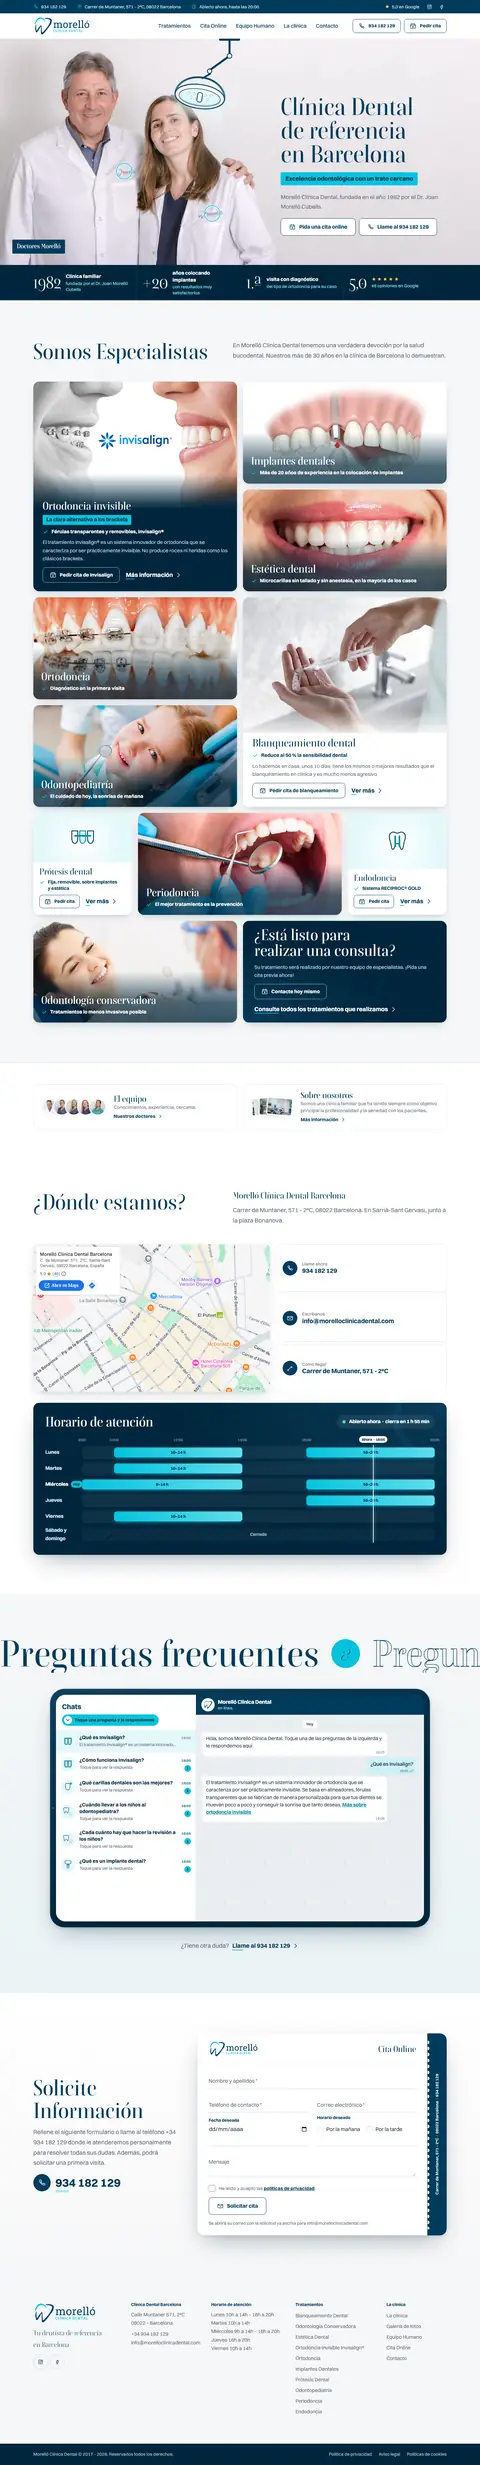
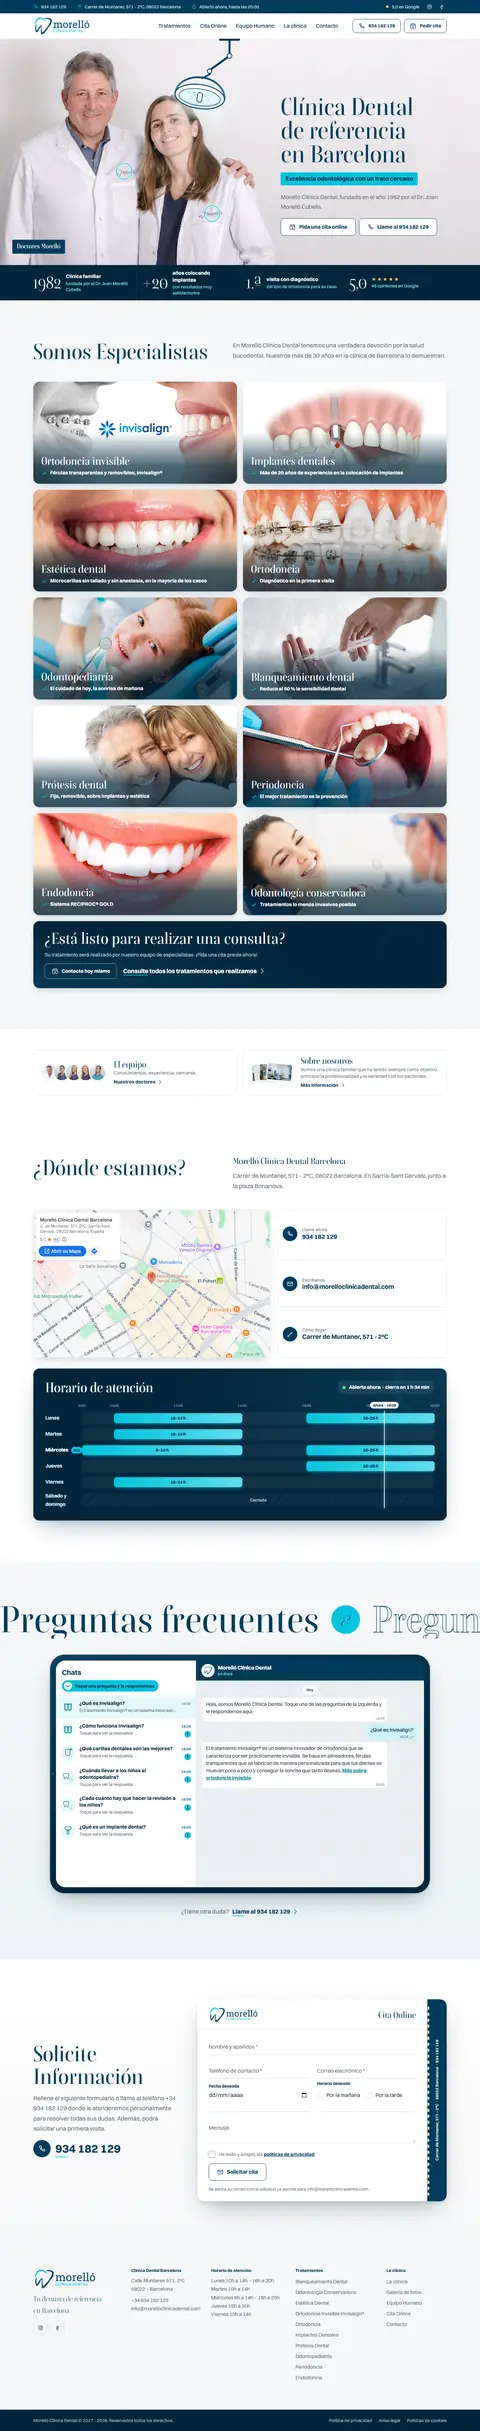
feat: ronda 4b — las diez fichas de servicio iguales y todas con foto
- Fuera las fichas altas y las de pictograma: prótesis y endodoncia
  llevan ya su foto (de su web), como el resto.
- Ordenador: dos columnas de fichas 2:1 exactas; la consulta, en una
  banda a todo el ancho.
- Tablet: las diez a la misma altura, con los botones al pie.
- Invisalign, blanqueamiento, prótesis y endodoncia recortadas a 2:1.

diff --git a/prototype/index.html b/prototype/index.html
@@ -50,7 +50,7 @@
 <link rel="preload" href="assets/fonts/boska-500.woff2" as="font" type="font/woff2" crossorigin>
 <link rel="preload" href="assets/fonts/switzer-400.woff2" as="font" type="font/woff2" crossorigin>
 <link rel="preload" as="image" href="assets/img/doctores-morello-1440.webp" imagesrcset="assets/img/doctores-morello-640.webp 640w, assets/img/doctores-morello-960.webp 960w, assets/img/doctores-morello-1440.webp 1440w, assets/img/doctores-morello-1919.webp 1919w" imagesizes="(min-width: 900px) 92vw, 100vw" fetchpriority="high">
-<link rel="stylesheet" href="assets/css/estilos.css?v=7">
+<link rel="stylesheet" href="assets/css/estilos.css?v=8">
 <script type="application/ld+json">
 {
   "@context": "https://schema.org",
@@ -236,14 +236,13 @@
       <div class="servicios__marco" data-servicios>
         <div class="servicios__rejilla">
 
-          <article class="servicio servicio--alto servicio--noche s-inv" style="--n:0">
-            <div class="servicio__media"><img data-foto loading="lazy" src="assets/img/ortodoncia-invisible-906.webp" srcset="assets/img/ortodoncia-invisible-600.webp 600w, assets/img/ortodoncia-invisible-906.webp 906w" sizes="(min-width: 1000px) 620px, 92vw" width="906" height="559" alt="Ortodoncia invisible Invisalign frente a los brackets"></div>
+          <article class="servicio servicio--foto s-inv" style="--n:0">
+            <div class="servicio__media"><img data-foto loading="lazy" src="assets/img/invisalign-906.webp" srcset="assets/img/invisalign-600.webp 600w, assets/img/invisalign-906.webp 906w" sizes="(min-width: 1000px) 620px, (min-width: 760px) 48vw, 92vw" width="906" height="453" alt="Ortodoncia invisible Invisalign frente a los brackets"></div>
             <div class="servicio__cuerpo">
               <h3 class="servicio__titulo">Ortodoncia invisible</h3>
-              <p class="banda banda--peq">La clara alternativa a los brackets</p>
               <p class="servicio__valor"><svg class="ico"><use href="#i-check"/></svg>Férulas transparentes y removibles, Invisalign®</p>
               <div class="servicio__mas">
-                <p>El tratamiento Invisalign® es un sistema innovador de ortodoncia que se caracteriza por ser prácticamente invisible. No produce roces ni heridas como los clásicos brackets.</p>
+                <p>La clara alternativa a los brackets. El tratamiento Invisalign® es un sistema innovador de ortodoncia que se caracteriza por ser prácticamente invisible. No produce roces ni heridas como los clásicos brackets.</p>
                 <div class="servicio__botones"><a class="boton boton--llamada" href="#cita" data-tratamiento="Ortodoncia invisible"><span class="boton__fondo" aria-hidden="true"></span><span class="boton__arco" aria-hidden="true"></span><span class="boton__ico boton__ico--cal" aria-hidden="true"><svg><use href="#i-cal"/></svg><svg><use href="#i-cal"/></svg></span><span class="boton__txt" data-t="Pedir cita de Invisalign">Pedir cita de Invisalign</span></a><a class="enlace" href="https://www.morelloclinicadental.com/tratamientos/ortodoncia-invisible-invisalign/">Más información<span class="sr"> sobre la ortodoncia invisible</span><svg class="ico"><use href="#i-flecha"/></svg></a></div>
               </div>
             </div>
@@ -251,7 +250,7 @@
           </article>
 
           <article class="servicio servicio--foto s-imp" style="--n:1">
-            <div class="servicio__media"><img data-foto loading="lazy" src="assets/img/implantes-1080.webp" srcset="assets/img/implantes-600.webp 600w, assets/img/implantes-1080.webp 1080w" sizes="(min-width: 1000px) 620px, 92vw" width="1080" height="541" alt="Ilustración de un implante dental entre dos dientes"></div>
+            <div class="servicio__media"><img data-foto loading="lazy" src="assets/img/implantes-1080.webp" srcset="assets/img/implantes-600.webp 600w, assets/img/implantes-1080.webp 1080w" sizes="(min-width: 1000px) 620px, (min-width: 760px) 48vw, 92vw" width="1080" height="541" alt="Ilustración de un implante dental entre dos dientes"></div>
             <div class="servicio__cuerpo">
               <h3 class="servicio__titulo">Implantes dentales</h3>
               <p class="servicio__valor"><svg class="ico"><use href="#i-check"/></svg>Más de 20 años de experiencia en la colocación de implantes</p>
@@ -264,7 +263,7 @@
           </article>
 
           <article class="servicio servicio--foto s-est" style="--n:2">
-            <div class="servicio__media"><img data-foto loading="lazy" src="assets/img/estetica-dental-1080.webp" srcset="assets/img/estetica-dental-600.webp 600w, assets/img/estetica-dental-1080.webp 1080w" sizes="(min-width: 1000px) 620px, 92vw" width="1080" height="541" alt="Sonrisa natural tras un tratamiento de estética dental"></div>
+            <div class="servicio__media"><img data-foto loading="lazy" src="assets/img/estetica-dental-1080.webp" srcset="assets/img/estetica-dental-600.webp 600w, assets/img/estetica-dental-1080.webp 1080w" sizes="(min-width: 1000px) 620px, (min-width: 760px) 48vw, 92vw" width="1080" height="541" alt="Sonrisa natural tras un tratamiento de estética dental"></div>
             <div class="servicio__cuerpo">
               <h2 class="servicio__titulo">Estética dental</h2>
               <p class="servicio__valor"><svg class="ico"><use href="#i-check"/></svg>Microcarillas sin tallado y sin anestesia, en la mayoría de los casos</p>
@@ -277,7 +276,7 @@
           </article>
 
           <article class="servicio servicio--foto s-ort" style="--n:3">
-            <div class="servicio__media"><img data-foto loading="lazy" src="assets/img/ortodoncia-brackets-1080.webp" srcset="assets/img/ortodoncia-brackets-600.webp 600w, assets/img/ortodoncia-brackets-1080.webp 1080w" sizes="(min-width: 1000px) 620px, 92vw" width="1080" height="541" alt="Ortodoncia con brackets estéticos y metálicos"></div>
+            <div class="servicio__media"><img data-foto loading="lazy" src="assets/img/ortodoncia-brackets-1080.webp" srcset="assets/img/ortodoncia-brackets-600.webp 600w, assets/img/ortodoncia-brackets-1080.webp 1080w" sizes="(min-width: 1000px) 620px, (min-width: 760px) 48vw, 92vw" width="1080" height="541" alt="Ortodoncia con brackets estéticos y metálicos"></div>
             <div class="servicio__cuerpo">
               <h2 class="servicio__titulo">Ortodoncia</h2>
               <p class="servicio__valor"><svg class="ico"><use href="#i-check"/></svg>Diagnóstico en la primera visita</p>
@@ -290,7 +289,7 @@
           </article>
 
           <article class="servicio servicio--foto s-ped" style="--n:4">
-            <div class="servicio__media"><img data-foto loading="lazy" src="assets/img/odontopediatria-1080.webp" srcset="assets/img/odontopediatria-600.webp 600w, assets/img/odontopediatria-1080.webp 1080w" sizes="(min-width: 1000px) 620px, 92vw" width="1080" height="541" alt="Niña sonriendo en el sillón durante una revisión de odontopediatría"></div>
+            <div class="servicio__media"><img data-foto loading="lazy" src="assets/img/odontopediatria-1080.webp" srcset="assets/img/odontopediatria-600.webp 600w, assets/img/odontopediatria-1080.webp 1080w" sizes="(min-width: 1000px) 620px, (min-width: 760px) 48vw, 92vw" width="1080" height="541" alt="Niña sonriendo en el sillón durante una revisión de odontopediatría"></div>
             <div class="servicio__cuerpo">
               <h2 class="servicio__titulo">Odontopediatría</h2>
               <p class="servicio__valor"><svg class="ico"><use href="#i-check"/></svg>El cuidado de hoy, la sonrisa de mañana</p>
@@ -302,8 +301,8 @@
             <span class="servicio__arco" aria-hidden="true"></span>
           </article>
 
-          <article class="servicio servicio--alto servicio--claro s-bla" style="--n:5">
-            <div class="servicio__media"><img data-foto loading="lazy" src="assets/img/blanqueamiento-800.webp" srcset="assets/img/blanqueamiento-600.webp 600w, assets/img/blanqueamiento-800.webp 800w" sizes="(min-width: 1000px) 620px, 92vw" width="800" height="533" alt="Férula y gel de blanqueamiento dental para usar en casa"></div>
+          <article class="servicio servicio--foto s-bla" style="--n:5">
+            <div class="servicio__media"><img data-foto loading="lazy" src="assets/img/blanqueamiento-casa-800.webp" srcset="assets/img/blanqueamiento-casa-600.webp 600w, assets/img/blanqueamiento-casa-800.webp 800w" sizes="(min-width: 1000px) 620px, (min-width: 760px) 48vw, 92vw" width="800" height="400" alt="Férula y gel de blanqueamiento dental para usar en casa"></div>
             <div class="servicio__cuerpo">
               <h3 class="servicio__titulo">Blanqueamiento dental</h3>
               <p class="servicio__valor"><svg class="ico"><use href="#i-check"/></svg>Reduce al 50 % la sensibilidad dental</p>
@@ -315,8 +314,8 @@
             <span class="servicio__arco" aria-hidden="true"></span>
           </article>
 
-          <article class="servicio servicio--picto s-pro" style="--n:6">
-            <div class="servicio__media"><svg class="picto" viewBox="0 0 40 40" aria-hidden="true"><path d="M4.5 10h8.5v11c0 4-1.9 7-4.25 7S4.5 25 4.5 21Z"/><path class="pi pi-pontico" d="M15.75 10h8.5v11c0 4-1.9 7-4.25 7s-4.25-3-4.25-7Z"/><path d="M27 10h8.5v11c0 4-1.9 7-4.25 7S27 25 27 21Z"/><path class="pi pi-puente" d="M9 17h22"/></svg></div>
+          <article class="servicio servicio--foto s-pro" style="--n:6">
+            <div class="servicio__media"><img data-foto loading="lazy" src="assets/img/protesis-pareja-818.webp" srcset="assets/img/protesis-pareja-600.webp 600w, assets/img/protesis-pareja-818.webp 818w" sizes="(min-width: 1000px) 620px, (min-width: 760px) 48vw, 92vw" width="818" height="409" alt="Pareja de adultos sonriendo abrazados"></div>
             <div class="servicio__cuerpo">
               <h3 class="servicio__titulo">Prótesis dental</h3>
               <p class="servicio__valor"><svg class="ico"><use href="#i-check"/></svg>Fija, removible, sobre implantes y estética</p>
@@ -329,7 +328,7 @@
           </article>
 
           <article class="servicio servicio--foto s-per" style="--n:7">
-            <div class="servicio__media"><img data-foto loading="lazy" src="assets/img/periodoncia-1080.webp" srcset="assets/img/periodoncia-600.webp 600w, assets/img/periodoncia-1080.webp 1080w" sizes="(min-width: 1000px) 620px, 92vw" width="1080" height="541" alt="Revisión de las encías con espejo y sonda periodontal"></div>
+            <div class="servicio__media"><img data-foto loading="lazy" src="assets/img/periodoncia-1080.webp" srcset="assets/img/periodoncia-600.webp 600w, assets/img/periodoncia-1080.webp 1080w" sizes="(min-width: 1000px) 620px, (min-width: 760px) 48vw, 92vw" width="1080" height="541" alt="Revisión de las encías con espejo y sonda periodontal"></div>
             <div class="servicio__cuerpo">
               <h3 class="servicio__titulo">Periodoncia</h3>
               <p class="servicio__valor"><svg class="ico"><use href="#i-check"/></svg>El mejor tratamiento es la prevención</p>
@@ -341,8 +340,8 @@
             <span class="servicio__arco" aria-hidden="true"></span>
           </article>
 
-          <article class="servicio servicio--picto s-end" style="--n:8">
-            <div class="servicio__media"><svg class="picto" viewBox="0 0 40 40" aria-hidden="true"><path d="M11 8.5c2.5-1.8 5-1.2 7 0 1.4.8 2.6.8 4 0 2-1.2 4.5-1.8 7 0 3 2.2 3 6.8 1.4 11-1.2 3.2-1.3 6.6-2.4 10.6-.7 2.6-2.8 2.7-3.5.1-.9-3.3-1.2-6.4-4.5-6.4s-3.6 3.1-4.5 6.4c-.7 2.6-2.8 2.5-3.5-.1-1.1-4-1.2-7.4-2.4-10.6C8 15.3 8 10.7 11 8.5Z"/><g class="pi pi-canal"><path d="M17 13.5v14.5M23 13.5v14.5"/></g></svg></div>
+          <article class="servicio servicio--foto s-end" style="--n:8">
+            <div class="servicio__media"><img data-foto loading="lazy" src="assets/img/endodoncia-sonrisa-1080.webp" srcset="assets/img/endodoncia-sonrisa-600.webp 600w, assets/img/endodoncia-sonrisa-1080.webp 1080w" sizes="(min-width: 1000px) 620px, (min-width: 760px) 48vw, 92vw" width="1080" height="540" alt="Sonrisa sana con los dientes blancos"></div>
             <div class="servicio__cuerpo">
               <h3 class="servicio__titulo">Endodoncia</h3>
               <p class="servicio__valor"><svg class="ico"><use href="#i-check"/></svg>Sistema RECIPROC® GOLD</p>
@@ -355,7 +354,7 @@
           </article>
 
           <article class="servicio servicio--foto s-con" style="--n:9">
-            <div class="servicio__media"><img data-foto loading="lazy" src="assets/img/conservadora-1080.webp" srcset="assets/img/conservadora-600.webp 600w, assets/img/conservadora-1080.webp 1080w" sizes="(min-width: 1000px) 620px, 92vw" width="1080" height="541" alt="Paciente sonriendo durante una revisión dental"></div>
+            <div class="servicio__media"><img data-foto loading="lazy" src="assets/img/conservadora-1080.webp" srcset="assets/img/conservadora-600.webp 600w, assets/img/conservadora-1080.webp 1080w" sizes="(min-width: 1000px) 620px, (min-width: 760px) 48vw, 92vw" width="1080" height="541" alt="Paciente sonriendo durante una revisión dental"></div>
             <div class="servicio__cuerpo">
               <h3 class="servicio__titulo">Odontología conservadora</h3>
               <p class="servicio__valor"><svg class="ico"><use href="#i-check"/></svg>Tratamientos lo menos invasivos posible</p>
@@ -616,6 +615,6 @@
   <a href="https://goo.gl/maps/yKcNHb74snL2" target="_blank" rel="noopener"><span class="barra-movil__ico" aria-hidden="true"><svg><use href="#i-ruta"/></svg></span>Cómo llegar</a>
 </nav>
 
-<script src="assets/js/main.js?v=7" defer></script>
+<script src="assets/js/main.js?v=8" defer></script>
 </body>
 </html>

diff --git a/prototype/assets/css/estilos.css b/prototype/assets/css/estilos.css
@@ -737,15 +737,7 @@ dialog::backdrop { background: rgba(0, 38, 60, .6); }
 .servicio__arco { position: absolute; z-index: 3; left: 12px; top: 12px; width: 58px; height: 58px; border-radius: 50%; border: 4px solid transparent; border-top-color: var(--cian); border-left-color: var(--cian); pointer-events: none; opacity: 0; transform: rotate(-90deg) scale(.6); transition: opacity .3s, transform .7s var(--muelle); }
 .servicio:hover .servicio__arco, .servicio:focus-within .servicio__arco { opacity: 1; transform: rotate(-14deg) scale(1); }
 .servicio:hover .servicio__media img, .servicio:focus-within .servicio__media img { transform: scale(1.05); }
-.servicio--picto .servicio__media { display: grid; place-items: center; aspect-ratio: 2 / 1; background: radial-gradient(circle at 50% 60%, #fff 0%, var(--cian-lavado) 70%); }
-.servicio--picto .picto { width: clamp(84px, 22%, 120px); height: auto; stroke-width: 1.2; transition: transform .7s var(--muelle); }
-.servicio--picto:hover .picto { transform: scale(1.08) rotate(-4deg); }
-.servicio--noche { background: var(--azul-noche); }
-.servicio--noche .servicio__titulo { color: #fff; }
-.servicio--noche .servicio__valor { color: #fff; }
-.servicio--noche .servicio__mas > p { color: #C6DBE6; }
-.servicio--noche .boton { --b-borde: rgba(255, 255, 255, .72); --b-texto: #fff; --b-relleno: #fff; --b-texto2: var(--azul); --b-fondo: transparent; }
-.servicio--noche .enlace, .enlace--claro { color: #fff; }
+.enlace--claro { color: #fff; }
 .servicio--consulta { justify-content: center; background: radial-gradient(120% 140% at 0% 100%, #0A3A57 0%, var(--azul-noche) 60%); color: #CFE2EC; }
 .servicio--consulta .servicio__titulo { color: #fff; font-size: clamp(2rem, 1.5rem + 1.6vw, 2.9rem); }
 .servicio--consulta .servicio__cuerpo > p { color: #C6DBE6; }
@@ -756,25 +748,21 @@ dialog::backdrop { background: rgba(0, 38, 60, .6); }
 
 /* tablets y ordenadores sin ratón: dos columnas de fichas */
 @media (min-width: 760px) {
-  .servicios__rejilla { grid-template-columns: repeat(2, minmax(0, 1fr)); gap: 18px; }
+  .servicios__rejilla { grid-template-columns: repeat(2, minmax(0, 1fr)); grid-template-rows: repeat(5, 1fr) auto; gap: 18px; }
   .s-ver { grid-column: 1 / -1; }
+  /* las diez fichas, iguales: la misma altura y los botones al pie */
+  .servicio--foto .servicio__cuerpo { flex: 1; grid-template-rows: auto auto 1fr; }
+  .servicio--foto .servicio__mas { grid-template-rows: auto 1fr; }
+  .servicio--foto .servicio__botones { align-self: end; flex-direction: column; align-items: flex-start; }
   .valores__lista { grid-template-columns: repeat(4, minmax(0, 1fr)); }
   .valor { min-height: var(--alto-franja); padding-inline: 18px; }
   .valor:first-child { padding-left: 0; }
   .valor + .valor { border-left: 1px solid rgba(255, 255, 255, .12); }
   .valor:nth-child(n + 3) { border-top: 0; }
 }
-/* ordenador con ratón: rejilla de proporciones exactas (las fotos 2:1 caben enteras) y el texto sube al pasar */
+/* ordenador con ratón: diez fichas 2:1 exactas (las fotos caben enteras) y el texto sube al pasar */
 @media (min-width: 1000px) and (hover: hover) {
-  .servicios__rejilla {
-    --g: 18px; gap: var(--g);
-    grid-template-columns: repeat(4, minmax(0, 1fr));
-    grid-auto-rows: calc((100cqw - 3 * var(--g)) / 4 / 1 + var(--g) / 2);
-    grid-template-areas: "inv inv imp imp" "inv inv est est" "ort ort bla bla" "ped ped bla bla" "pro per per end" "con con ver ver";
-  }
-  .s-inv { grid-area: inv; } .s-imp { grid-area: imp; } .s-est { grid-area: est; } .s-ort { grid-area: ort; } .s-ped { grid-area: ped; }
-  .s-bla { grid-area: bla; } .s-pro { grid-area: pro; } .s-per { grid-area: per; } .s-end { grid-area: end; } .s-con { grid-area: con; }
-  .s-ver { grid-area: ver; }
+  .servicios__rejilla { --g: 18px; gap: var(--g); grid-template-rows: repeat(5, calc((100cqw - var(--g)) / 4)) auto; }
   .servicio__titulo { font-size: clamp(1.7rem, 2.6cqw, 2.6rem); }
   /* fichas con foto: la foto entera de fondo y el texto que sube al pasar */
   .servicio--foto .servicio__media { position: absolute; inset: 0; }
@@ -787,18 +775,7 @@ dialog::backdrop { background: rgba(0, 38, 60, .6); }
   .servicio--foto:hover .servicio__mas, .servicio--foto:focus-within .servicio__mas { opacity: 1; transition-delay: .12s; }
   .servicio--foto .boton { --b-borde: rgba(255, 255, 255, .72); --b-texto: #fff; --b-relleno: #fff; --b-texto2: var(--azul); --b-fondo: transparent; }
   .servicio--foto .enlace { color: #fff; }
-  /* fichas altas: foto arriba entera y texto encima de su parte baja */
-  .servicio--alto .servicio__media { position: absolute; left: 0; right: 0; top: 0; }
-  .servicio--alto .servicio__cuerpo { position: absolute; left: 0; right: 0; bottom: 0; padding: 80px 28px 26px; }
-  .servicio--noche .servicio__cuerpo { background: linear-gradient(180deg, rgba(0, 38, 60, 0) 0%, rgba(0, 38, 60, .9) 26%, var(--azul-noche) 46%); }
-  .servicio--claro .servicio__cuerpo { background: linear-gradient(180deg, rgba(255, 255, 255, 0) 0%, rgba(255, 255, 255, .92) 26%, #fff 46%); }
-  /* fichas pequeñas con pictograma */
-  .servicio--picto .servicio__media { aspect-ratio: auto; flex: 1; min-height: 0; }
-  .servicio--picto .servicio__cuerpo { padding: 14px 18px 18px; gap: 8px; }
-  .servicio--picto .servicio__titulo { font-size: clamp(1.5rem, 2.1cqw, 2rem); }
-  .servicio--picto .servicio__mas > p { display: none; }
-  .servicio--picto .servicio__valor { font-size: .88rem; }
-  .servicio--picto .boton { min-height: 40px; padding: 7px 14px; font-size: .86rem; }
+  .servicio--foto .servicio__botones { flex-direction: row; align-items: center; }
   .servicio--consulta .servicio__cuerpo { padding: 28px 34px; gap: 14px; }
 }
 

diff --git a/prototype/assets/js/main.js b/prototype/assets/js/main.js
@@ -256,19 +256,6 @@
     var rsServ; window.addEventListener('resize', function () { clearTimeout(rsServ); rsServ = setTimeout(medir, 150); });
     if (document.fonts && document.fonts.ready) document.fonts.ready.then(medir);
     vigilar(marcoServ, null, '0px 0px -10% 0px');
-    // al pasar por una ficha con pictograma, el pictograma hace su gesto; y de vez en cuando, solo
-    var conPicto = fichas.filter(function (f) { return f.classList.contains('servicio--picto'); });
-    conPicto.forEach(function (f) {
-      f.addEventListener('pointerenter', function () { f.classList.remove('gesto'); void f.offsetWidth; f.classList.add('gesto'); });
-    });
-    var iGesto = 0;
-    (function gestos() {
-      if (!quieto && marcoServ.classList.contains('en-vista') && conPicto.length) {
-        var f = conPicto[iGesto++ % conPicto.length];
-        if (!f.matches(':hover')) { f.classList.remove('gesto'); void f.offsetWidth; f.classList.add('gesto'); }
-      }
-      setTimeout(gestos, 2600);
-    })();
   }
 
   /* ---------- preguntas: una tablet con la conversación de WhatsApp ---------- */

diff --git a/prototype/caducada.html b/prototype/caducada.html
@@ -76,7 +76,7 @@
 
     <figure class="miniatura">
       <span class="ventana" tabindex="0" aria-label="Miniatura de la home propuesta">
-        <img src="assets/img/home-miniatura.webp" width="480" height="2465" alt="Miniatura de la home propuesta para Morelló Clínica Dental, completa de arriba abajo" onerror="this.closest('figure').hidden = true">
+        <img src="assets/img/home-miniatura.webp" width="480" height="2431" alt="Miniatura de la home propuesta para Morelló Clínica Dental, completa de arriba abajo" onerror="this.closest('figure').hidden = true">
       </span>
     </figure>
   </main>

diff --git a/README.md b/README.md
@@ -11,7 +11,7 @@ Prototipo de homepage para **Morelló Clínica Dental** ([morelloclinicadental.c
 Tras hablar Pablo con su jefe: una home sirve para atrapar al paciente, así que manda lo que ofrece la clínica y lo que la distingue; el equipo y las instalaciones pasan a un segundo plano, porque tendrán sus páginas. El diseño se mantiene.
 
 - **Bajo el hero, lo que distingue a la clínica** (en lugar de los accesos): 1982, clínica familiar fundada por el Dr. Joan Morelló Cubells · +20 años colocando implantes · 1.ª visita con diagnóstico del tipo de ortodoncia · 5,0 en Google con 46 opiniones.
-- **Somos Especialistas, protagonista:** fuera la dentadura. Los 10 servicios a la vista en una rejilla con sus fotos y, en cada uno, su valor añadido literal: Invisalign (férulas transparentes y removibles), implantes (más de 20 años), estética (microcarillas sin tallado y sin anestesia en la mayoría de los casos), ortodoncia (diagnóstico en la primera visita), odontopediatría, blanqueamiento en casa (reduce al 50 % la sensibilidad), prótesis, periodoncia (el mejor tratamiento es la prevención), endodoncia (RECIPROC® GOLD) y conservadora (lo menos invasiva posible). Al pasar el cursor sube su texto con «Pedir cita de…» y «Ver más»; en el móvil se ve todo. Cierra la rejilla «¿Está listo para realizar una consulta?». Las fotos 2:1 caben enteras en su hueco.
+- **Somos Especialistas, protagonista:** fuera la dentadura. Los 10 servicios a la vista en diez fichas iguales, todas con su foto y, en cada una, su valor añadido literal: Invisalign (férulas transparentes y removibles), implantes (más de 20 años), estética (microcarillas sin tallado y sin anestesia en la mayoría de los casos), ortodoncia (diagnóstico en la primera visita), odontopediatría, blanqueamiento en casa (reduce al 50 % la sensibilidad), prótesis, periodoncia (el mejor tratamiento es la prevención), endodoncia (RECIPROC® GOLD) y conservadora (lo menos invasiva posible). En el ordenador, dos columnas de fichas 2:1 con la foto entera; al pasar el cursor sube su texto con «Pedir cita de…» y «Ver más». En la tablet, todas a la misma altura con los botones al pie; en el móvil se ve todo. Cierra la rejilla una banda a todo el ancho: «¿Está listo para realizar una consulta?». Las fotos de Invisalign, blanqueamiento, prótesis y endodoncia (de su web) se han recortado a 2:1 sin perder nada importante.
 - **Equipo y clínica, discretos:** una franja con las caras del equipo y tres miniaturas de la clínica que llevan a sus páginas (Equipo Humano y La clínica). Fuera la red de formación y la puerta de la recepción.
 - **¿Dónde estamos?:** mapa y contacto a la misma altura y la agenda debajo.
 - **Preguntas frecuentes:** el título va en una cinta enorme que avanza despacio hacia la izquierda (relleno, contorno y un «¿?» cian). Debajo, una tablet en horizontal con WhatsApp: las preguntas son chats con su globito de «1» sin leer, la pastilla «Toque una pregunta y le respondemos» señala la lista y la siguiente pregunta late; la conversación responde con los textos de sus páginas. En el móvil la tablet se pone vertical. Sección simétrica.
